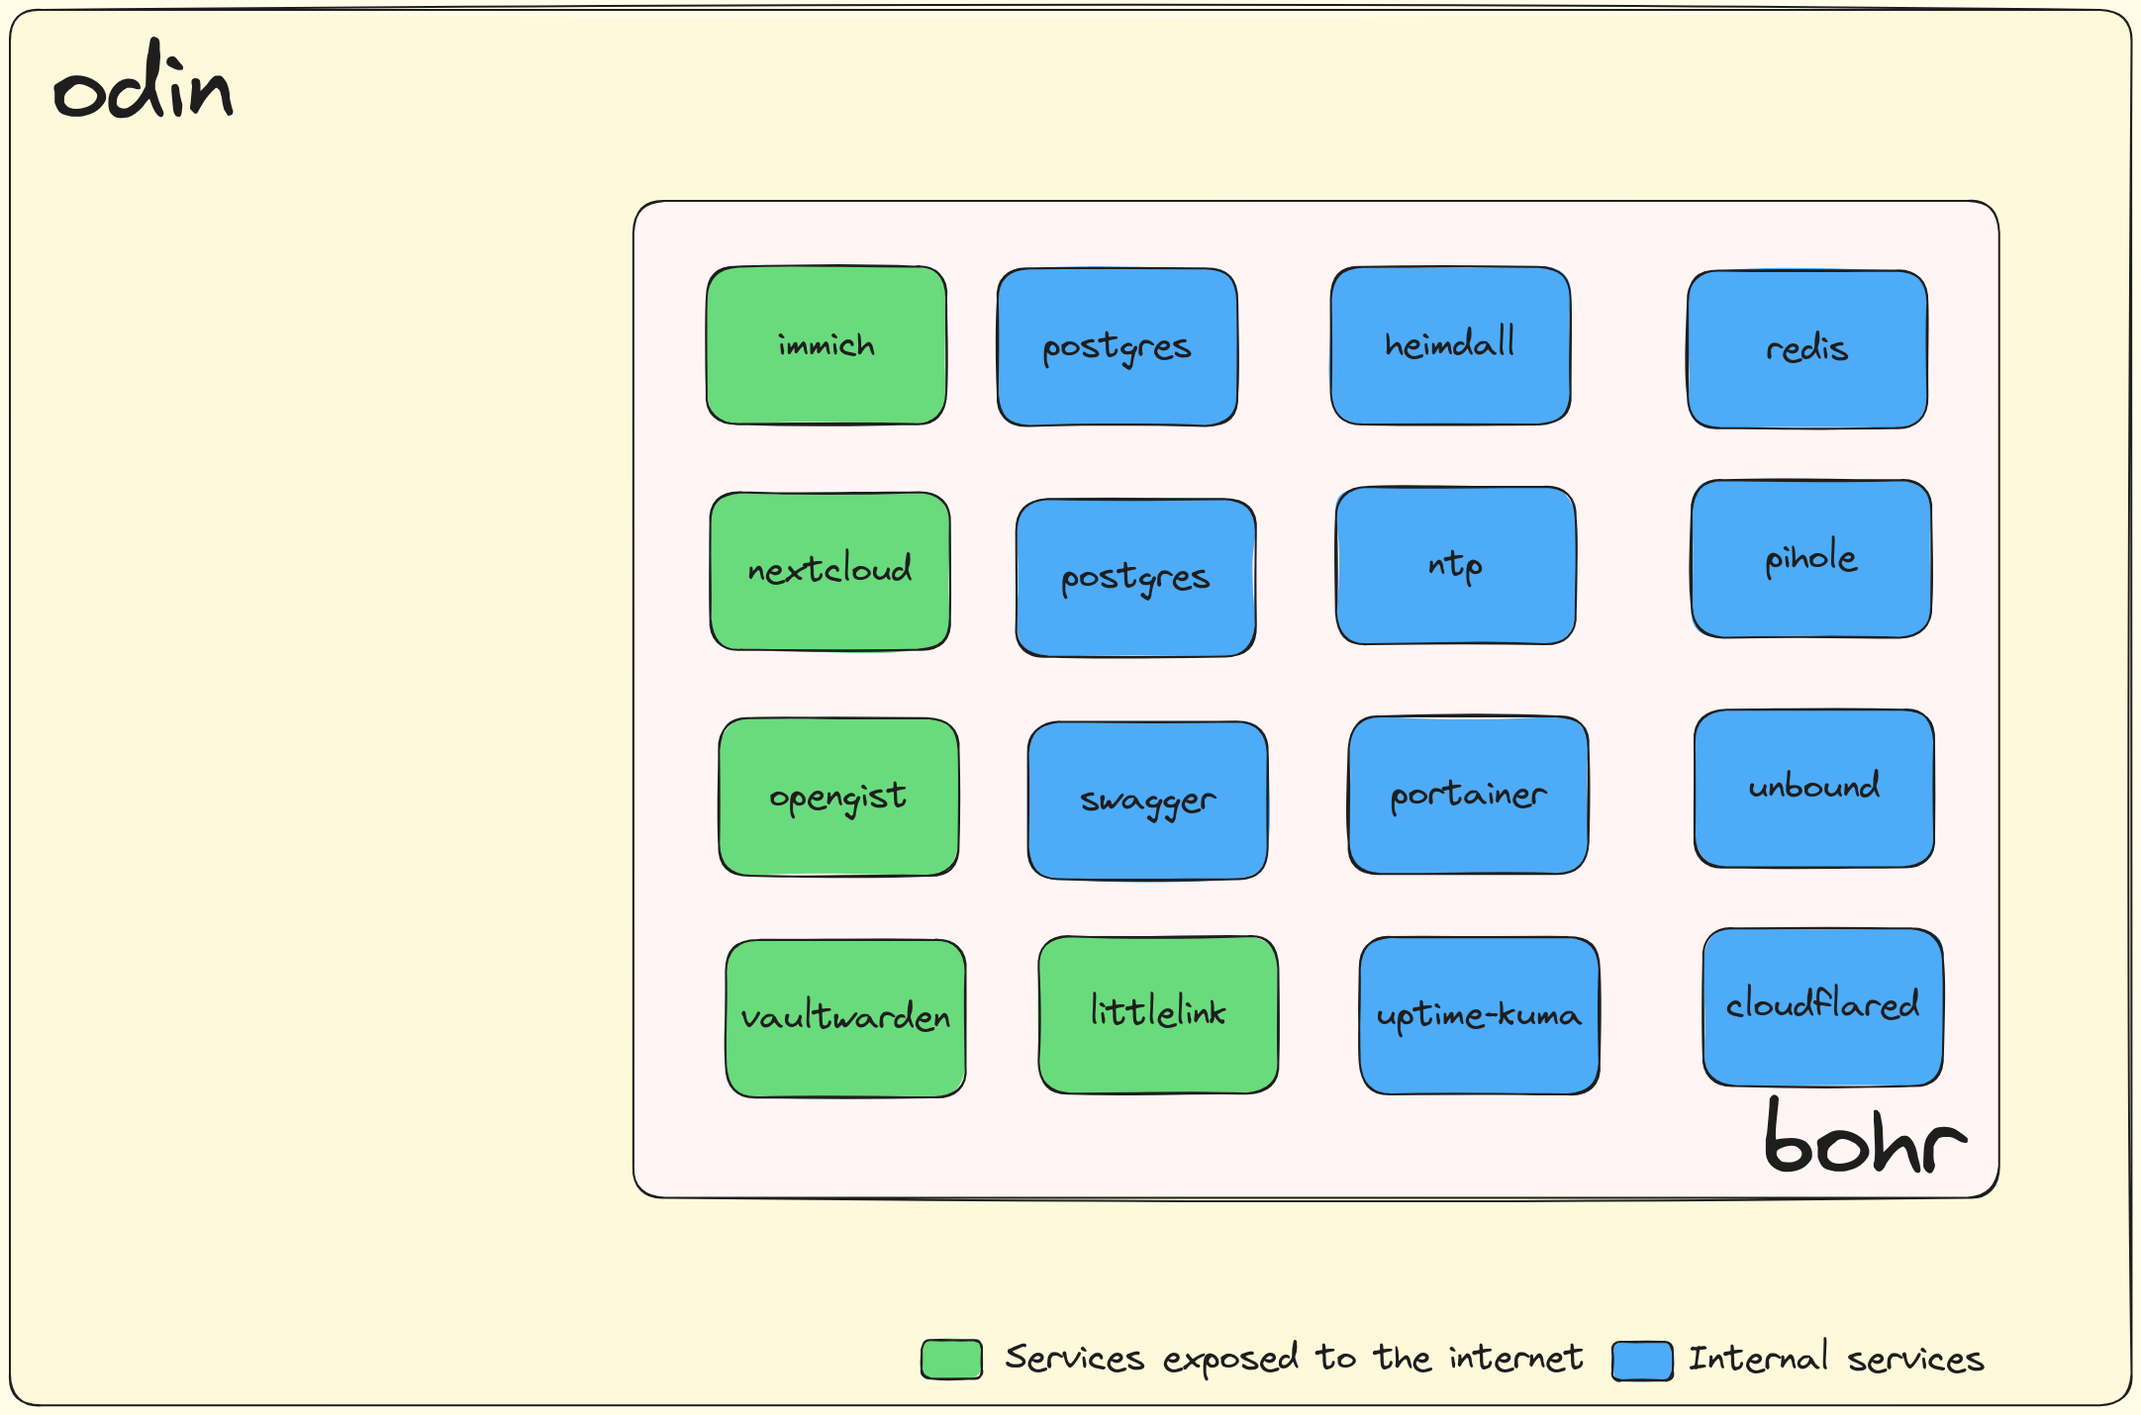
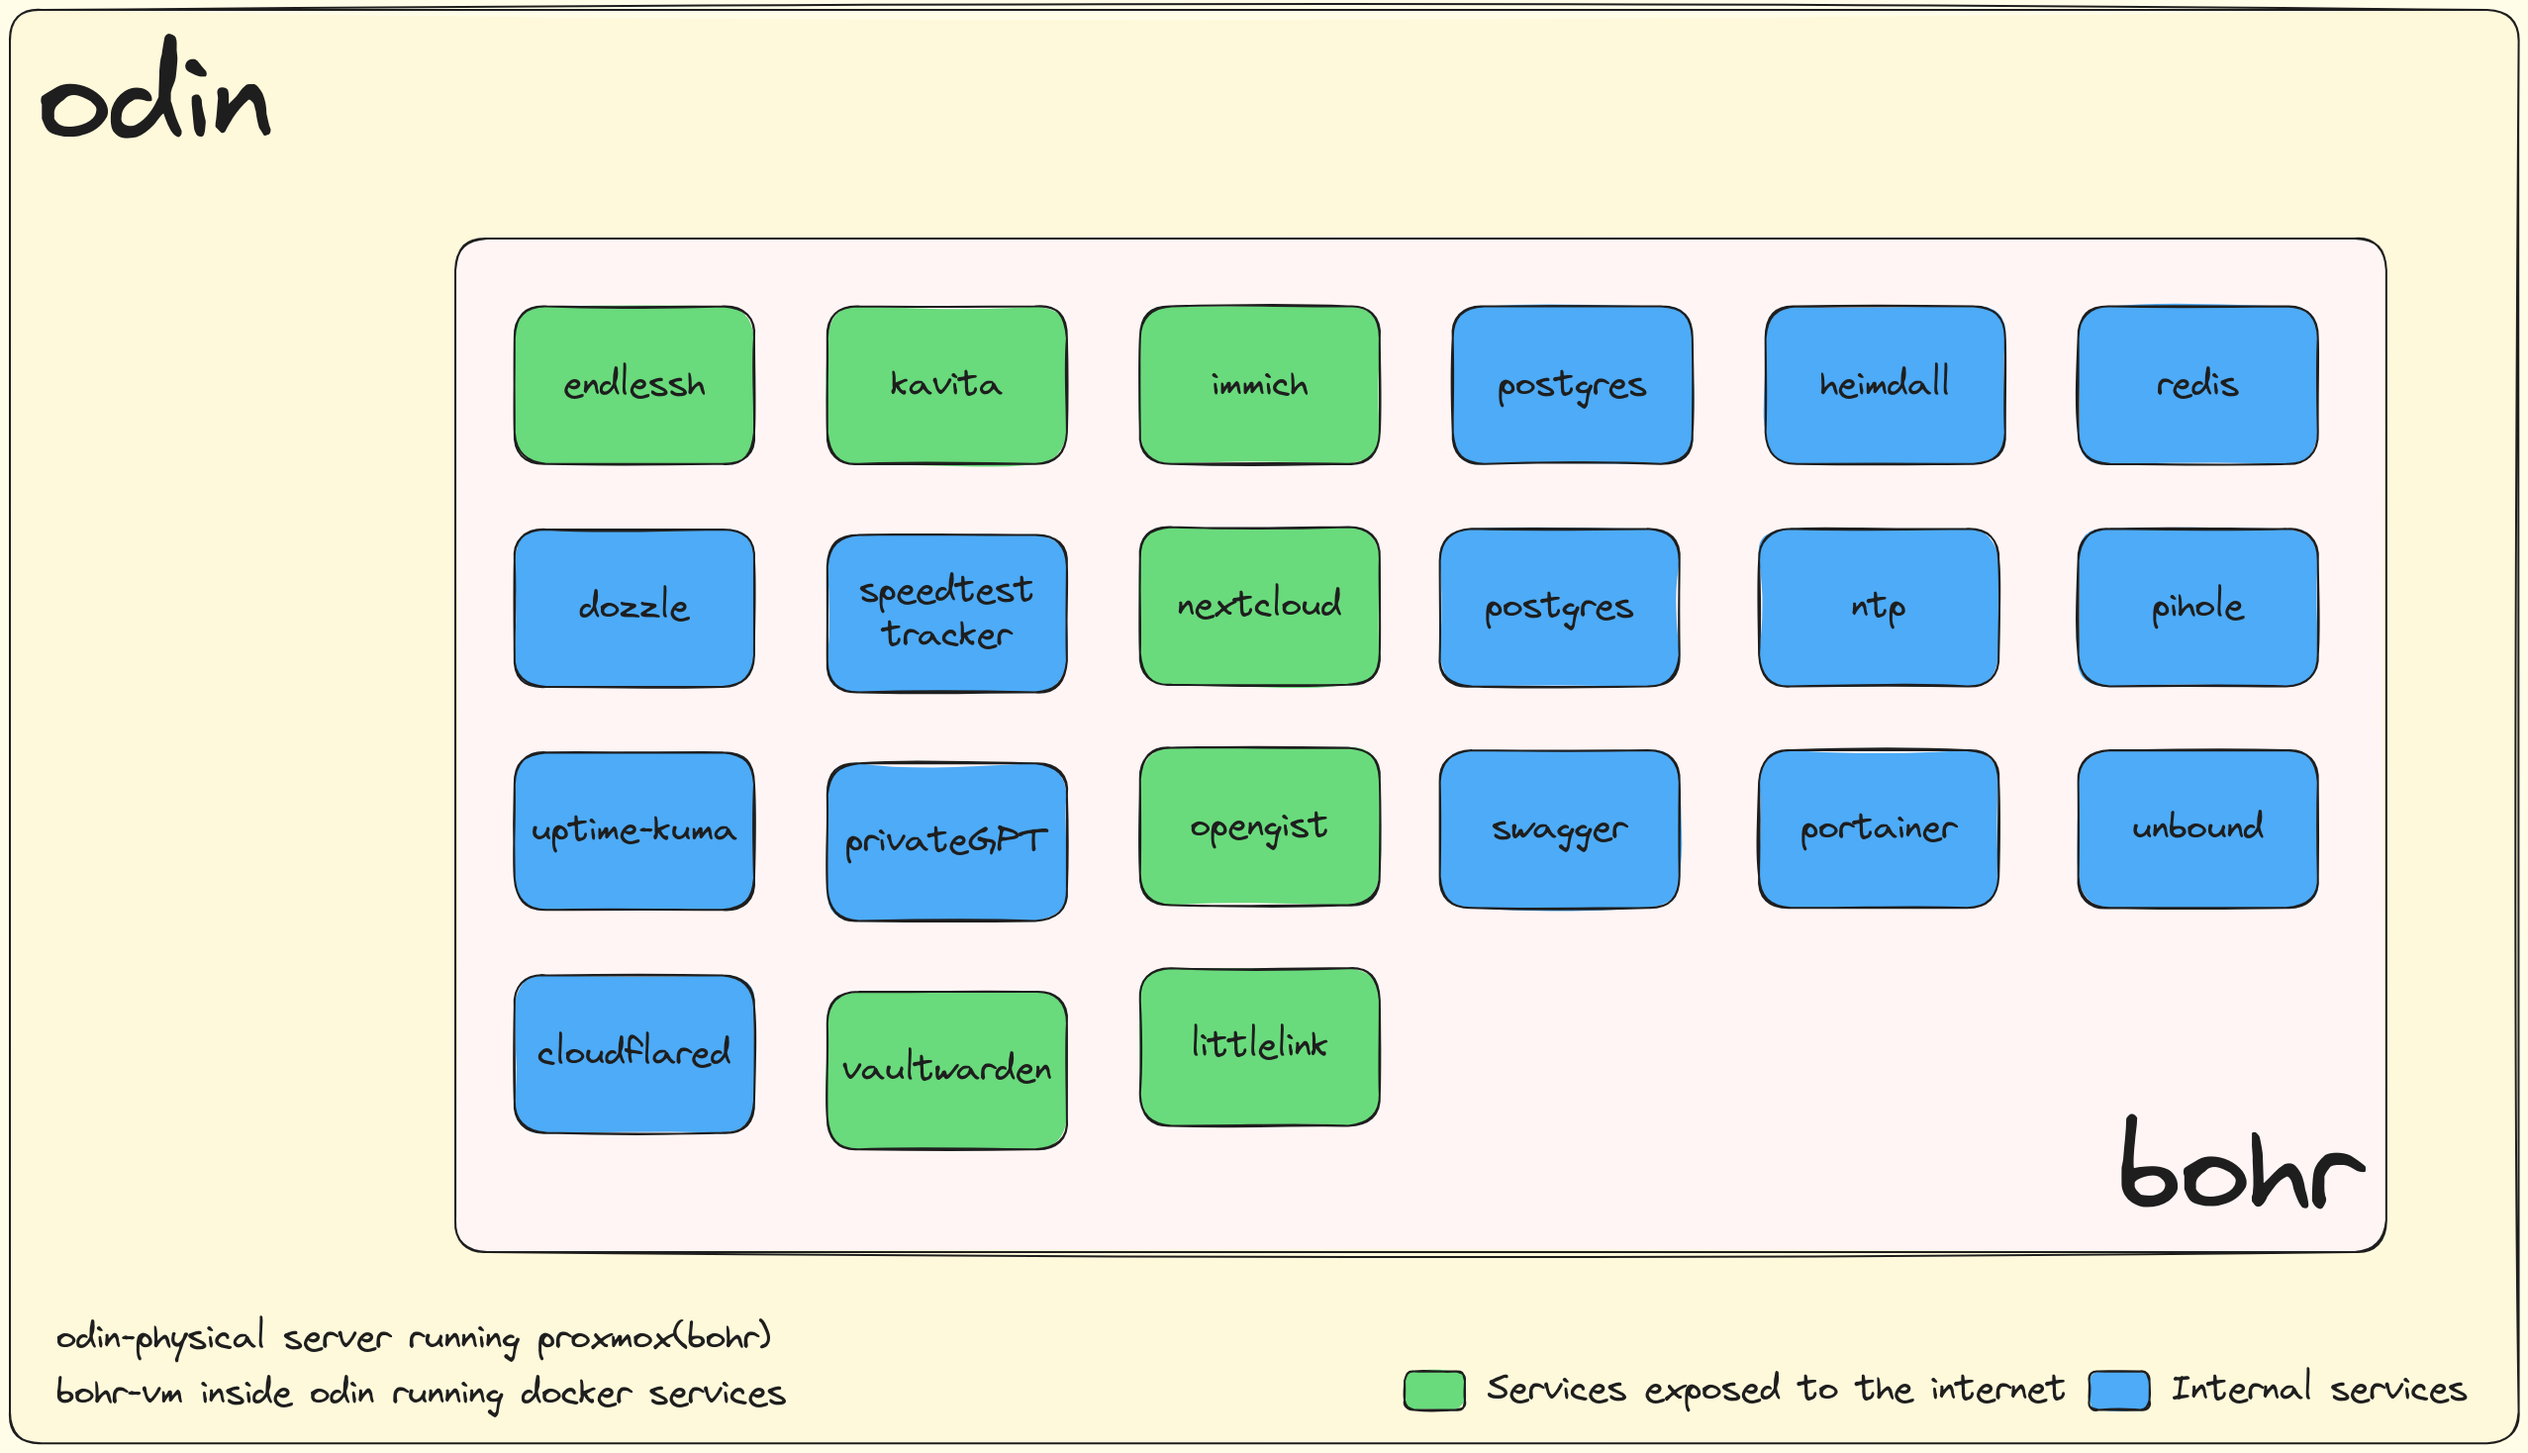
docs(README.md): Update homelab services
Mention various applications like Speedtest Tracker, Kavita, Endlessh, and Dozzle, along with links to their websites and social media profiles. Highlight differences in binary files.

diff --git a/README.md b/README.md
@@ -1,6 +1,6 @@
 # Rodney Osodo's Homelab
 
-Hello, I'm [Rodney Osodo][website] [@blackd0t][twitter] on Twitter. I'm a software engineer and this is my homelab. I use it to learn new technologies and to host my projects and other services. This repository contains the configuration files for my homelab.
+Hello, I'm [Rodney Osodo][website] [@blackd0t][twitter] on Twitter. I'm a software engineer and homelab. I use it to learn new technologies and to host myprojects and other services. This repository contains the configuration files for my homelab.
 
 ## Goals
 
@@ -24,9 +24,9 @@ I also have a Raspberry Pi 4 Model B with 4 GB RAM which is not running since I 
 
 Some photos of my homelab:
 
-![odin-server][odin-image]
-
 ![computers][computers]
+
+![odin-server][odin-image]
 
 More photos can be found in this [Immich-photo-album][Immich-photo-album].
 
@@ -48,7 +48,7 @@ Portainer is a lightweight management UI that allows me to easily manage my diff
 
 My portainer configuration files can be found in the [portainer-compose][portainer-compose] directory.
 
-This is my ![portainer dashboard][portainer-dashboard].
+![portainer dashboard][portainer-dashboard]
 
 ### uptime-kuma
 
@@ -56,7 +56,7 @@ uptime-kuma is a fancy self-hosted monitoring tool. It monitors the uptime of my
 
 My uptime-kuma configuration files can be found in the [uptime-kuma-compose][uptime-kuma-compose] directory.
 
-This is my ![uptime-kuma dashboard][uptime-kuma-dashboard].
+![uptime-kuma dashboard][uptime-kuma-dashboard]
 
 ### heimdall
 
@@ -64,7 +64,7 @@ Heimdall is a dashboard for all my web applications. It is a way to organize all
 
 My heimdall configuration files can be found in the [heimdall-compose][heimdall-compose] directory.
 
-This is my ![heimdall dashboard][heimdall-dashboard].
+![heimdall dashboard][heimdall-dashboard]
 
 ### postgres
 
@@ -78,7 +78,7 @@ Nextcloud is a suite of client-server software for creating and using file hosti
 
 My nextcloud configuration files can be found in the [nextcloud-compose][nextcloud-compose] directory.
 
-This is my ![nextcloud dashboard][nextcloud-dashboard].
+![nextcloud dashboard][nextcloud-dashboard]
 
 ### littlelink
 
@@ -104,7 +104,7 @@ Pi-hole is a Linux network-level advertisement and Internet tracker blocking app
 
 My pihole configuration files can be found in the [pihole-compose][pihole-compose] directory.
 
-This is my ![pihole dashboard][pihole-dashboard].
+![pihole dashboard][pihole-dashboard]
 
 ### swagger-editor
 
@@ -124,7 +124,7 @@ Immich is a photo album that I use to store all my photos. I use it to store all
 
 My immich configuration files can be found in the [immich-compose][immich-compose] directory.
 
-This is my ![immich dashboard][immich-dashboard].
+![immich dashboard][immich-dashboard]
 
 ### redis
 
@@ -143,6 +143,34 @@ My vaultwarden configuration files can be found in the [vaultwarden-compose][vau
 OpenGist is a lightweight implementation of the GitHub Gist API, written in Rust, supports creating, editing, deleting, and listing gists, and can be self-hosted. I use it to store my code snippets.
 
 My opengist configuration files can be found in the [opengist-compose][opengist-compose] directory.
+
+### speedtest-tracker
+
+Speedtest Tracker is a self-hosted internet performance tracking application that runs speedtest checks against Ookla's Speedtest service. I use it to track my internet speeds.
+
+My speedtest-tracker configuration files can be found in the [speedtest-tracker-compose][speedtest-tracker-compose] directory.
+
+![speedtest-tracker dashboard][speedtest-tracker-dashboard]
+
+### kavita
+
+Kavita is a fast, feature rich, cross platform reading server. Built with a focus for manga and the goal of being a full solution for all your reading needs. Setup your own server and share your reading collection with your friends and family.
+
+My kavita configuration files can be found in the [kavita-compose][kavita-compose] directory.
+
+## endlessh
+
+endlessh is an SSH tarpit that slowly sends an endless banner. It keeps SSH clients locked up for hours or even days at a time. The purpose is to put your real SSH server on another port and then let the script kiddies get stuck in this tarpit instead of bothering a real server.
+
+My endlessh configuration files can be found in the [endlessh-compose][endlessh-compose] directory.
+
+## dozzle
+
+dozzle is a simple container log viewer for Docker. It is designed to be very minimalistic and fit into the Docker ecosystem without extra dependencies.
+
+My dozzle configuration files can be found in the [dozzle-compose][dozzle-compose] directory.
+
+![dozzle dashboard][dozzle-dashboard]
 
 [website]: https://rodneyosodo.com
 [twitter]: https://twitter.com/b1ackd0t
@@ -172,3 +200,9 @@ My opengist configuration files can be found in the [opengist-compose][opengist-
 [redis-compose]: ./docker-compose/redis/
 [vaultwarden-compose]: ./docker-compose/vaultwarden/
 [opengist-compose]: ./docker-compose/opengist/
+[speedtest-tracker-compose]: ./docker-compose/speedtest-tracker/
+[speedtest-tracker-dashboard]: ./assets/speedtest.png
+[kavita-compose]: ./docker-compose/kavita/
+[endlessh-compose]: ./docker-compose/endlessh/
+[dozzle-compose]: ./docker-compose/dozzle/
+[dozzle-dashboard]: ./assets/dozzle.png
